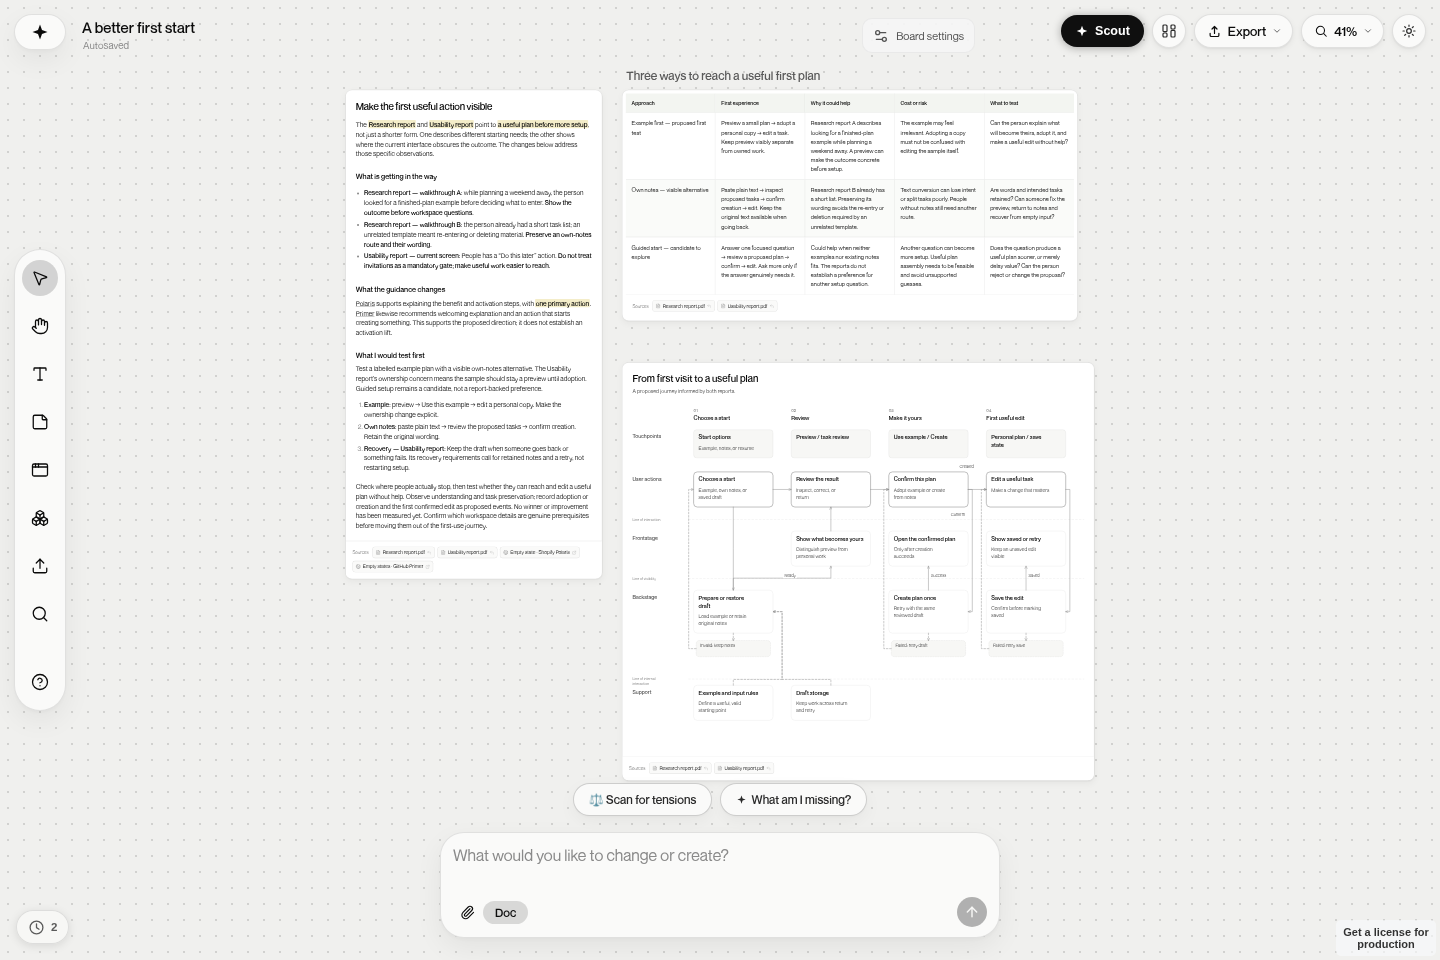
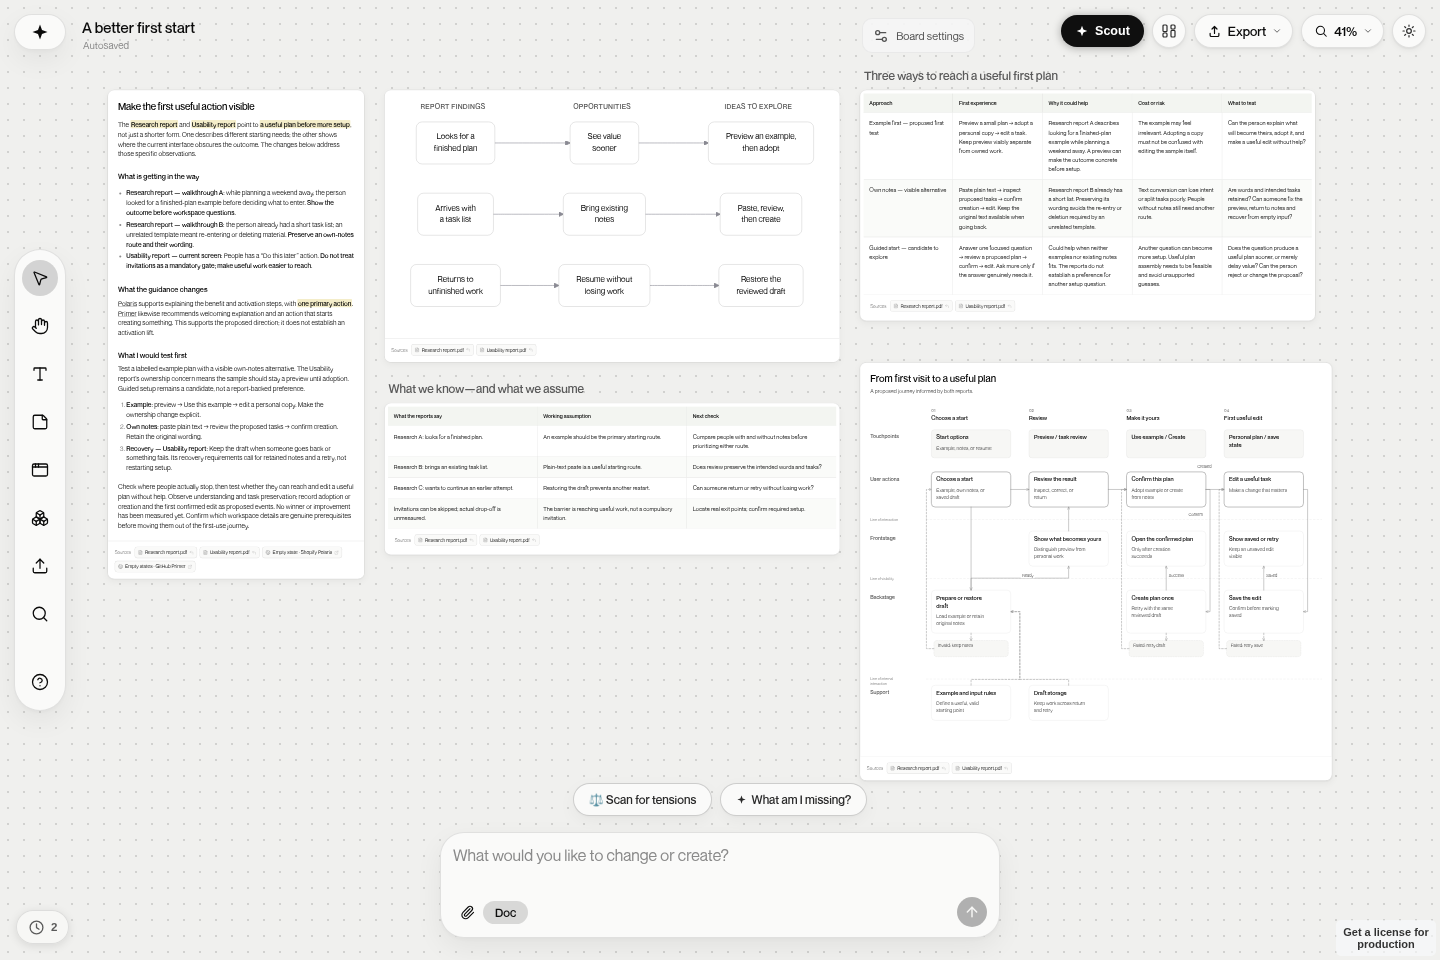
Add Jarwiz opportunity and evidence cards to UI review

diff --git a/work/jarwiz-ui-review/index.html b/work/jarwiz-ui-review/index.html
@@ -22,7 +22,7 @@
     h1 span{color:#9a9e95;font-weight:400}
     .description{max-width:650px;margin:0;font-size:18px;line-height:1.5;color:var(--muted)}
     .surface-tabs{display:flex;gap:8px;overflow-x:auto;padding:5px 3px 12px;margin:0 -3px 8px;scrollbar-width:thin;scrollbar-color:#dce1d7 transparent}
-    .surface-tab{display:flex;align-items:center;justify-content:flex-start;gap:10px;flex:1;min-width:0;padding:8px;background:#fff;border:1px solid transparent;border-radius:10px;text-align:left;color:#8b9285;font-size:13px;line-height:1.2;white-space:nowrap}
+    .surface-tab{display:flex;align-items:center;justify-content:flex-start;gap:10px;flex:1 0 auto;min-width:0;padding:8px;background:#fff;border:1px solid transparent;border-radius:10px;text-align:left;color:#8b9285;font-size:13px;line-height:1.2;white-space:nowrap}
     .surface-tab:hover{background:#f8f9f6;color:#424d39}
     .surface-tab[aria-selected="true"]{background:#f4f6f0;border-color:#e2e7dc;color:#273421}
     .tab-preview{display:block;flex:none;width:48px;height:32px;border:1px solid #e6e9e0;border-radius:4px;overflow:hidden;background:var(--paper)}
@@ -63,16 +63,18 @@
     <header class="intro">
       <svg class="brand" viewBox="0 0 32 32" aria-hidden="true"><path fill="currentColor" d="M16 1C14.6 11.3 11.3 14.6 1 16c10.3 1.4 13.6 4.7 15 15 1.4-10.3 4.7-13.6 15-15C20.7 14.6 17.4 11.3 16 1Z"/></svg>
       <h1>Jarwiz <span>/ UI review</span></h1>
-      <p class="description">Compact attachments, clearer type, and sources inside the cards. Six surfaces, ready for a closer look.</p>
+      <p class="description">Compact attachments, clearer type, and sources inside the cards. Eight surfaces, ready for a closer look.</p>
     </header>
     <section aria-label="Product screenshots">
       <div class="surface-tabs" role="tablist" aria-label="Product surface">
         <button type="button" class="surface-tab" id="tab-start" role="tab" aria-selected="true" aria-controls="surface-panel" tabindex="0" data-surface="start"><span class="tab-preview"><img src="./surfaces/start.png" alt="" loading="lazy"></span><span>Start</span></button>
         <button type="button" class="surface-tab" id="tab-attachments" role="tab" aria-selected="false" aria-controls="surface-panel" tabindex="-1" data-surface="attachments"><span class="tab-preview"><img src="./surfaces/attachments.png" alt="" loading="lazy"></span><span>Attachments</span></button>
         <button type="button" class="surface-tab" id="tab-research" role="tab" aria-selected="false" aria-controls="surface-panel" tabindex="-1" data-surface="research"><span class="tab-preview"><img src="./surfaces/research.png" alt="" loading="lazy"></span><span>Research</span></button>
+        <button type="button" class="surface-tab" id="tab-opportunities" role="tab" aria-selected="false" aria-controls="surface-panel" tabindex="-1" data-surface="opportunities"><span class="tab-preview"><img src="./surfaces/opportunities.png?v=ideation-cards" alt="" loading="lazy"></span><span>Opportunities</span></button>
+        <button type="button" class="surface-tab" id="tab-evidence" role="tab" aria-selected="false" aria-controls="surface-panel" tabindex="-1" data-surface="evidence"><span class="tab-preview"><img src="./surfaces/evidence.png?v=ideation-cards" alt="" loading="lazy"></span><span>Evidence</span></button>
         <button type="button" class="surface-tab" id="tab-comparison" role="tab" aria-selected="false" aria-controls="surface-panel" tabindex="-1" data-surface="comparison"><span class="tab-preview"><img src="./surfaces/comparison.png" alt="" loading="lazy"></span><span>Comparison</span></button>
         <button type="button" class="surface-tab" id="tab-blueprint" role="tab" aria-selected="false" aria-controls="surface-panel" tabindex="-1" data-surface="blueprint"><span class="tab-preview"><img src="./surfaces/blueprint.png?v=flow-primitives" alt="" loading="lazy"></span><span>Blueprint</span></button>
-        <button type="button" class="surface-tab" id="tab-canvas" role="tab" aria-selected="false" aria-controls="surface-panel" tabindex="-1" data-surface="canvas"><span class="tab-preview"><img src="./surfaces/canvas.png?v=flow-primitives" alt="" loading="lazy"></span><span>Canvas</span></button>
+        <button type="button" class="surface-tab" id="tab-canvas" role="tab" aria-selected="false" aria-controls="surface-panel" tabindex="-1" data-surface="canvas"><span class="tab-preview"><img src="./surfaces/canvas.png?v=ideation-cards" alt="" loading="lazy"></span><span>Canvas</span></button>
       </div>
       <div id="surface-panel" role="tabpanel" aria-labelledby="tab-start" tabindex="0">
         <figure class="surface-figure">
@@ -98,6 +100,8 @@
       start:{label:'Start',caption:'Begin with the question.',alt:'Jarwiz’s starting prompt'},
       attachments:{label:'Attachments',caption:'Keep the supporting files close to the question.',alt:'Compact report attachments in the Jarwiz prompt'},
       research:{label:'Research',caption:'Read the reasoning and follow its sources.',alt:'A Jarwiz research card with sources inside the card'},
+      opportunities:{label:'Opportunities',caption:'Explore the opportunities before choosing a solution.',alt:'An opportunity map on the Jarwiz canvas'},
+      evidence:{label:'Evidence',caption:'Separate what the reports show from what still needs testing.',alt:'Evidence and assumptions from the supplied reports'},
       comparison:{label:'Comparison',caption:'Compare the approaches side by side.',alt:'A detailed comparison table in Jarwiz'},
       blueprint:{label:'Blueprint',caption:'Follow each step across service lanes, with recovery paths where needed.',alt:'A chronological service blueprint with conditional recovery paths on the Jarwiz canvas'},
       canvas:{label:'Canvas',caption:'Keep the whole response in view.',alt:'The complete Jarwiz working canvas'},
@@ -106,7 +110,7 @@
     const panel=document.querySelector('#surface-panel'),stage=document.querySelector('.surface-stage'),mainImage=document.querySelector('#surface-image'),imageLink=document.querySelector('#surface-open'),fullLink=document.querySelector('#surface-full'),empty=document.querySelector('#surface-empty');
     const dialog=document.querySelector('#surface-lightbox'),dialogImage=document.querySelector('#lightbox-image'),sizeButton=document.querySelector('#lightbox-size');
     let selected='start',previousOverflow='';
-    const path=key=>`./surfaces/${key}.png${key==='blueprint'||key==='canvas'?'?v=flow-primitives':''}`;
+    const path=key=>`./surfaces/${key}.png${['opportunities','evidence','canvas'].includes(key)?'?v=ideation-cards':key==='blueprint'?'?v=flow-primitives':''}`;
     function setImageState(ready){empty.hidden=ready;imageLink.style.visibility=ready?'visible':'hidden';fullLink.hidden=!ready;if(ready&&mainImage.naturalWidth){stage.style.aspectRatio=`${mainImage.naturalWidth} / ${mainImage.naturalHeight}`;}}
     function selectSurface(key,focus=false,updateHash=true){
       if(!Object.hasOwn(surfaces,key))return;
